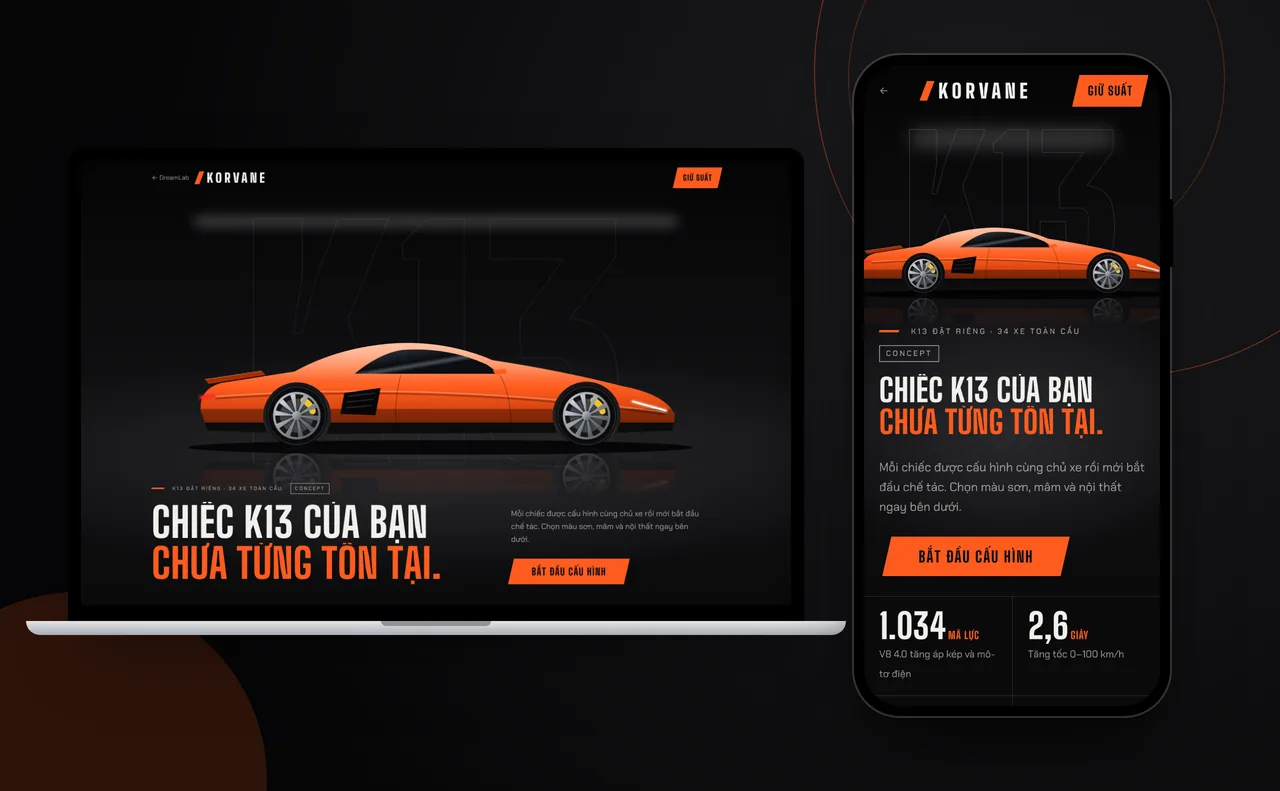
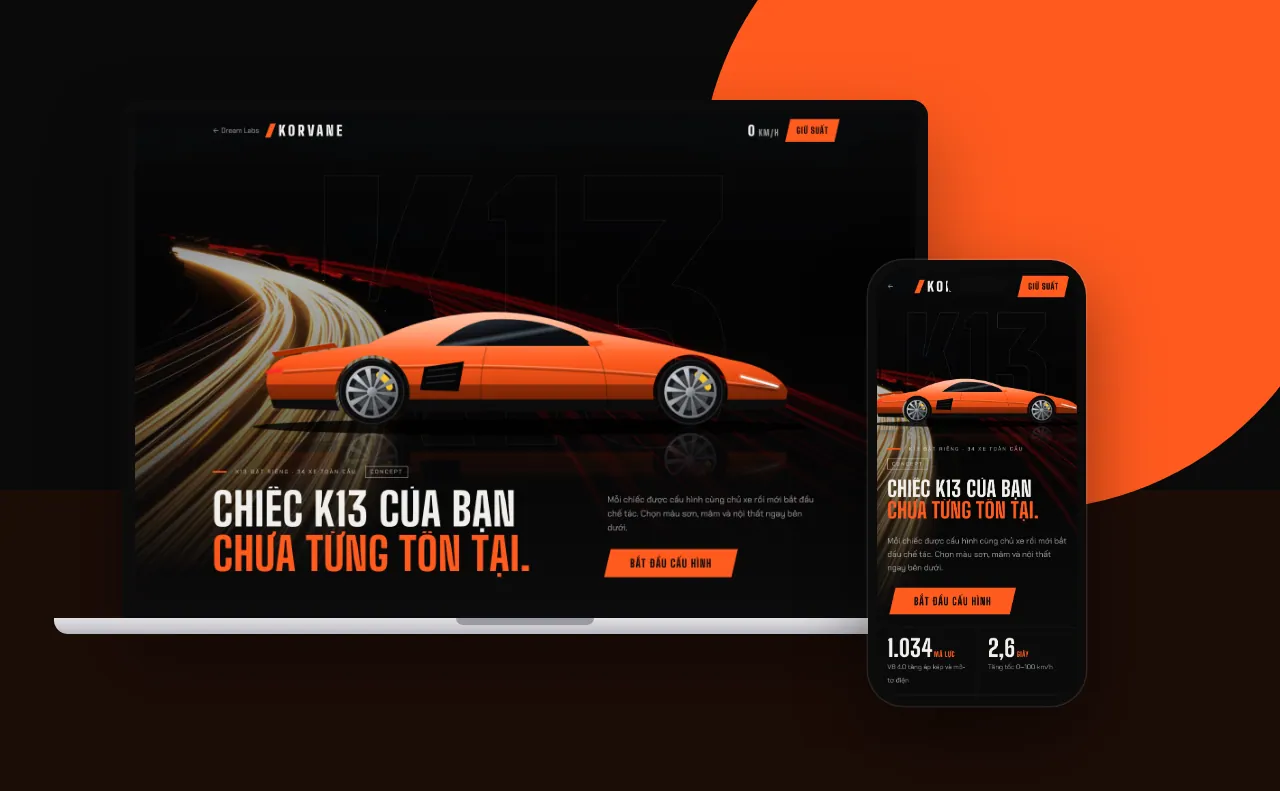
Landing Korvane: ảnh chất liệu thật (carbon, da, phanh, vệt đèn), cảnh ghim wipe xiên, dải cận cảnh
Claude-Session: https://claude.ai/code/session_012QLWn7rvRysGvRwdv6upwG

diff --git a/demos/lux-lp-korvane.html b/demos/lux-lp-korvane.html
@@ -25,9 +25,9 @@ ul,ol{padding:0;list-style:none}
 summary{cursor:pointer;list-style:none}summary::-webkit-details-marker{display:none}
 .w{width:100%;max-width:1280px;margin:0 auto;padding:0 max(20px,4.4vw)}
 .h1 span{display:block;overflow:hidden;padding-bottom:.1em;margin-bottom:-.1em}
-.h1 i{display:block;font-style:normal;animation:up var(--d6) var(--ease) both}
+.h1 i{display:block;font-style:normal;animation:sl var(--d6) var(--ease) .1s both}
 .h1 span:nth-child(2) i{animation-delay:.162s}.h1 span:nth-child(3) i{animation-delay:.324s}
-@keyframes up{from{transform:translateY(110%)}}
+@keyframes sl{from{transform:translateX(-104%) skewX(-13deg)}}
 @keyframes fade{from{opacity:0}}
 .js [data-r]{opacity:0;transform:translateY(26px);transition:opacity var(--d5) var(--ease),transform var(--d6) var(--ease);transition-delay:calc(var(--i,0)*162ms)}
 .js [data-r=clip]{opacity:1;transform:none;clip-path:inset(0 0 100% 0);transition:clip-path var(--d6) var(--ease);transition-delay:calc(var(--i,0)*162ms)}
@@ -41,7 +41,7 @@ summary{cursor:pointer;list-style:none}summary::-webkit-details-marker{display:n
 @media(max-width:760px){.stk{display:flex}body{padding-bottom:0}}
 .emb .bk{display:none!important}
 .vh{position:absolute;width:1px;height:1px;overflow:hidden;clip-path:inset(50%)}
-@media(prefers-reduced-motion:reduce){html{scroll-behavior:auto}*,*::before,*::after{animation:none!important;transition:none!important}.js [data-r]{opacity:1;transform:none;clip-path:none}}
+@media(prefers-reduced-motion:reduce){html{scroll-behavior:auto}*,*::before,*::after{animation:none!important;transition:none!important}.js [data-r]{opacity:1;transform:none;clip-path:none}.js .lc[data-r] div{clip-path:polygon(9% 0,100% 0,91% 100%,0 100%)}}
 :root{--bk:#0A0A0B;--cb:#141416;--wh:#F1F0EC;--mu:rgba(241,240,236,.64);--ln:rgba(241,240,236,.14);--pa:#FF5B1F;--ac:var(--pa);--fd:"Big Shoulders",Impact,sans-serif;--fb:"Chakra Petch",system-ui,sans-serif}
 body{background:var(--bk);color:var(--wh);font-family:var(--fb);font-weight:400}
 h1,h2,h3{font-family:var(--fd);font-weight:800;text-transform:uppercase;line-height:1;letter-spacing:.01em}
@@ -61,17 +61,30 @@ header .w{display:flex;align-items:center;gap:var(--s3);height:68px}
 .lg i{width:10px;height:26px;background:var(--pa);transform:skewX(-21deg);margin-right:var(--s2);transition:background var(--d4)}
 /* hero */
 .hero{position:relative;min-height:min(100svh,940px);padding:var(--s7) 0 var(--s5);display:flex;flex-direction:column;justify-content:flex-end;overflow:hidden;background:radial-gradient(ellipse 68% 26% at 50% 68%,#2A2A2E 0,transparent 100%),linear-gradient(180deg,#050506,#131315 61.8%,#0A0A0B)}
-.hero::before{content:"";position:absolute;left:16%;right:16%;top:13%;height:10px;border-radius:9px;background:#fff;filter:blur(13px);opacity:.5;animation:fade 2.6s var(--ease) both}
+.hb{position:absolute;inset:-12px;overflow:hidden;translate:calc(var(--mx,0)*-10px) calc(var(--my,0)*-6px);transition:translate var(--d5) var(--ease)}
+.hb div{position:absolute;inset:-9% 0}
+.hb img{display:block;width:100%;height:100%;object-fit:cover;object-position:50% 64%;animation:kb 16s var(--ease) both}
+@keyframes kb{from{transform:scale(1.16)}}
+.hb::after{content:"";position:absolute;inset:0;background:linear-gradient(180deg,rgba(10,10,11,.92),rgba(10,10,11,.3) 34%,rgba(10,10,11,.5) 58%,var(--bk) 94%)}
+.sk i{position:absolute;left:0;top:31%;width:34vw;height:2px;background:linear-gradient(90deg,transparent,var(--pa) 70%,#fff);opacity:0;animation:sk 4.2s cubic-bezier(.5,0,.1,1) 1s infinite;animation-play-state:paused}
+.sk i:nth-child(2){top:47%;width:52vw;height:1px;animation-duration:5.6s;animation-delay:2.1s}
+.sk i:nth-child(3){top:62%;width:22vw;height:3px;animation-duration:3.6s;animation-delay:2.9s}
+.sk i:nth-child(4){top:22%;width:44vw;height:1px;animation-duration:6.8s;animation-delay:.4s}
+.on>.sk i{animation-play-state:running}
+@keyframes sk{0%{transform:translateX(-56vw) skewX(-21deg);opacity:0}8%{opacity:.85}46%{opacity:.5}58%,100%{transform:translateX(112vw) skewX(-21deg);opacity:0}}
 .bg{position:absolute;left:0;right:0;top:14%;text-align:center;font-family:var(--fd);font-weight:900;font-size:min(46vw,620px);line-height:.8;color:transparent;-webkit-text-stroke:1px rgba(241,240,236,.13);white-space:nowrap;pointer-events:none;-webkit-user-select:none;user-select:none}
 .cw{position:relative;width:min(100%,1180px);margin:0 auto;padding:0 var(--s3);animation:drv var(--d6) var(--ease) both}
 @keyframes drv{from{transform:translateX(-26%);opacity:0}}
-.car{width:100%;overflow:visible;--p1:#FF9A6B;--p2:#FF5B1F;--p3:#A82C00;--r1:#C9CED3;--r2:#55595F;--cl:#F2C230}
+.car{translate:calc(var(--mx,0)*13px) calc(var(--my,0)*5px);transition:translate var(--d5) var(--ease);width:100%;overflow:visible;--p1:#FF9A6B;--p2:#FF5B1F;--p3:#A82C00;--r1:#C9CED3;--r2:#55595F;--cl:#F2C230}
 .car .sp{transform:rotate(calc(var(--sy,0)*.6deg))}
 .car .hl{animation:hl 4.24s ease-in-out infinite alternate}@keyframes hl{from{opacity:.5}to{opacity:1}}
 .hero .w{position:relative;z-index:2;display:grid;grid-template-columns:1.618fr 1fr;gap:var(--s5);align-items:end;margin-top:calc(-1*var(--s4))}
 h1{font-size:clamp(42px,5.8vw,84px);margin-top:var(--s3)}.h1 span{white-space:nowrap}
 .hr{display:grid;gap:var(--s4);justify-items:start;animation:fade var(--d6) var(--ease) .6s both}
 .hr p{color:var(--mu);max-width:38ch}
+.spd,.rv{display:none}
+.mo .spd{display:block;font-family:var(--fd);font-weight:800;font-size:16px;letter-spacing:.1em;text-transform:uppercase;color:var(--mu);min-width:92px;text-align:right;font-variant-numeric:tabular-nums}.spd b{font-size:26px;color:var(--wh)}
+.mo .rv{display:block;position:absolute;left:0;right:0;bottom:-2px;height:2px;background:var(--pa);transform-origin:0 0;transform:scaleX(0);transition:background var(--d4)}
 /* số */
 .nb{border-top:1px solid var(--ln);border-bottom:1px solid var(--ln)}
 .nb .w{display:grid;grid-template-columns:repeat(4,1fr)}
@@ -89,6 +102,43 @@ h2{font-size:clamp(42px,6vw,89px)}
 .bn li::before{content:"";position:absolute;left:0;top:0;width:42px;height:4px;background:var(--pa);transition:width var(--d5) var(--ease),background var(--d4)}.bn li:hover::before{width:100%}
 .bn small{font-family:var(--fd);font-weight:800;font-size:53px;line-height:1;color:transparent;-webkit-text-stroke:1px var(--mu)}
 .bn h3{font-size:33px;margin:var(--s4) 0 var(--s2)}.bn p{color:var(--mu)}
+/* chất liệu */
+.mt{position:relative}
+.mk{position:relative;display:grid;grid-template-columns:1.618fr 1fr;align-items:center;gap:var(--s5);max-width:1280px;margin:0 auto;padding:0 max(20px,4.4vw) var(--s6)}
+.mk figure{overflow:hidden;aspect-ratio:1.618}
+.mk img{display:block;width:100%;height:100%;object-fit:cover}
+.mc{display:grid;gap:var(--s3);justify-items:start}
+.mc>p:nth-child(3){color:var(--mu);max-width:36ch}
+.mn{display:flex;flex-wrap:wrap;align-items:baseline;gap:0 var(--s2);font-size:13px;color:var(--mu);margin-top:var(--s2)}
+.mn b{font-family:var(--fd);font-weight:800;font-size:clamp(68px,9vw,144px);line-height:.86;color:var(--wh);font-variant-numeric:tabular-nums}
+.mn small{font-family:var(--fd);font-weight:800;font-size:26px;letter-spacing:.06em;color:var(--pa);transition:color var(--d4)}.mn span{flex-basis:100%;margin-top:var(--s2)}
+.me,.mg{display:none}
+.mo .mt{height:300vh;height:300svh}
+.mo .mp{position:sticky;top:0;height:100vh;height:100svh;overflow:hidden}
+.mo .mk{position:absolute;inset:0;max-width:none;padding:0;display:flex}
+.mo .mk figure{position:absolute;inset:0;aspect-ratio:auto}
+.mo .mk figure::after{content:"";position:absolute;inset:0;background:linear-gradient(90deg,rgba(10,10,11,.96),rgba(10,10,11,.82) 36%,rgba(10,10,11,.08) 76%),linear-gradient(0deg,rgba(10,10,11,.8),transparent 34%)}
+.mo .mk img{will-change:transform}
+.mo .mc{position:relative;width:100%;max-width:1280px;margin:0 auto;padding:var(--s6) max(20px,4.4vw)}
+.mo .mc>*{opacity:0;transform:translateX(-68px);transition:opacity var(--d4) var(--ease),transform var(--d5) var(--ease)}
+.mo .a .mc>*{opacity:1;transform:none;transition-delay:.16s}.mo .a .mc>:nth-child(2){transition-delay:.26s}.mo .a .mc>:nth-child(3){transition-delay:.36s}.mo .a .mc>:nth-child(4){transition-delay:.46s}
+.mo .me{display:block;position:absolute;top:0;left:0;width:18%;height:100%;z-index:3;opacity:0;pointer-events:none;background:linear-gradient(to bottom right,transparent calc(50% - 2px),var(--pa) calc(50% - 2px),var(--pa) calc(50% + 2px),transparent calc(50% + 2px))}
+.mo .mg{display:block;position:absolute;left:max(20px,4.4vw);right:max(20px,4.4vw);bottom:var(--s5);height:13px;z-index:4;background:repeating-linear-gradient(90deg,var(--ln) 0 2px,transparent 2px 13px)}
+.mg i{position:absolute;inset:0;background:repeating-linear-gradient(90deg,var(--pa) 0 2px,transparent 2px 13px);clip-path:inset(0 100% 0 0)}
+/* cận cảnh */
+.lk{overflow:hidden}
+.lr{display:flex;gap:var(--s4);overflow-x:auto;padding:0 max(20px,4.4vw) var(--s3);scrollbar-width:none;outline-offset:-2px;cursor:grab;-webkit-user-select:none;user-select:none}.lr::-webkit-scrollbar{display:none}
+.lr.dg{cursor:grabbing}
+.lc{flex:0 0 min(46vw,620px)}
+.lc div{aspect-ratio:1.5;overflow:hidden;clip-path:polygon(9% 0,100% 0,91% 100%,0 100%);background:var(--cb)}
+.js .lc[data-r] div{clip-path:polygon(9% 0,9% 0,0 100%,0 100%);transition:clip-path var(--d6) var(--ease) calc(var(--i,0)*162ms)}
+.js .lc.in div{clip-path:polygon(9% 0,100% 0,91% 100%,0 100%)}
+.lc img{display:block;width:120%;max-width:none;height:100%;margin-left:-10%;object-fit:cover;pointer-events:none;transition:scale var(--d5) var(--ease)}
+.lc:hover img{scale:1.06}
+.lc figcaption{display:flex;align-items:baseline;gap:var(--s3);margin-top:var(--s3);padding-left:9%;color:var(--mu);font-size:13px;letter-spacing:.06em}
+.lc b{font-family:var(--fd);font-weight:800;font-size:33px;line-height:1;color:var(--pa);transition:color var(--d4)}
+.lb{margin:var(--s3) max(20px,4.4vw) 0;height:2px;background:var(--ln)}.lb i{display:block;height:100%;background:var(--pa);transform-origin:0 0;transform:scaleX(.2);transition:background var(--d4)}
+@media(hover:none){.lr{scroll-snap-type:x mandatory;scroll-padding:0 max(20px,4.4vw)}.lc{scroll-snap-align:start}}
 /* cấu hình */
 .cz{background:var(--cb)}
 .ch{display:grid;grid-template-columns:1.618fr 1fr;gap:var(--s5);align-items:start}
@@ -143,7 +193,13 @@ footer .w{display:flex;flex-wrap:wrap;justify-content:space-between;gap:var(--s2
 .stk button{background:var(--pa);color:var(--bk);font-family:var(--fd);font-weight:800;font-size:16px;letter-spacing:.06em;text-transform:uppercase;transition:background var(--d4)}
 .stk .msg{background:var(--pa);color:var(--bk)}
 @media(max-width:860px){
-.bk span{display:none}
+.bk span,.mo .spd{display:none}
+.sk i:nth-child(n+3){display:none}.hb img{object-position:38% 60%}
+.mk{grid-template-columns:1fr;gap:var(--s3);padding-bottom:var(--s5)}
+.mo .mk{align-items:flex-end}.mo .mc{padding-bottom:132px}
+.mo .mk figure::after{background:linear-gradient(0deg,rgba(10,10,11,.96) 22%,rgba(10,10,11,.6) 52%,rgba(10,10,11,.1) 80%)}
+.mo .mg{bottom:94px}
+.lc{flex-basis:80vw}.lr{gap:var(--s2)}
 .hero{padding:94px 0 var(--s4);min-height:0}.bg{top:68px;font-size:58vw}.cw{padding:0;margin-top:var(--s6);width:122%;margin-left:-11%}
 .hero .w,.sh,.pg,.fm{grid-template-columns:1fr;gap:var(--s4)}.hero .w{margin-top:0}
 .hr .btn{margin-left:var(--s2)}
@@ -158,9 +214,11 @@ footer{padding-bottom:94px}
 </style>
 </head>
 <body>
-<header><div class="w"><a class="bk" href="../index.html" target="_top" aria-label="Quay lại Dream Labs">←&nbsp;<span>Dream Labs</span></a><a class="lg" href="#top"><i></i>KORVANE</a><a class="btn sm" href="#dk"><span>Giữ suất</span></a></div></header>
+<header><div class="w"><a class="bk" href="../index.html" target="_top" aria-label="Quay lại Dream Labs">←&nbsp;<span>Dream Labs</span></a><a class="lg" href="#top"><i></i>KORVANE</a><span class="spd" aria-hidden="true"><b id="sp">0</b> km/h</span><a class="btn sm" href="#dk"><span>Giữ suất</span></a></div><i class="rv" id="rv"></i></header>
 <main id="top">
-<section class="hero">
+<section class="hero" id="hero">
+ <div class="hb"><div data-p=".1"><img src="../img/photo/sieu-xe-1499539.webp" width="2400" height="1600" alt="Vệt đèn xe màu vàng và đỏ uốn theo khúc cua trên đường cao tốc ban đêm" fetchpriority="high" decoding="async"></div></div>
+ <div class="sk" aria-hidden="true"><i></i><i></i><i></i><i></i></div>
  <div class="bg" aria-hidden="true" data-p="-.14">K13</div>
  <div class="cw">
   <svg class="car" id="k0" viewBox="0 0 1000 380" role="img" aria-label="Siêu xe Korvane K13 nhìn ngang, hình vẽ bằng SVG">
@@ -214,6 +272,16 @@ footer{padding-bottom:94px}
  </ul>
 </div></section>
 
+<section class="mt" id="chat-lieu" aria-label="Chất liệu"><div class="mp">
+ <article class="mk"><figure><img src="../img/photo/sieu-xe-596815.webp" width="1800" height="1192" alt="Cận cảnh bề mặt sợi carbon dệt chéo, phía trên có một đường chỉ khâu trắng" loading="lazy" decoding="async"></figure>
+  <div class="mc"><p class="cap">Chất liệu 01 / 03</p><h2>Carbon <em>dệt lộ.</em></h2><p>Khung liền khối để lộ vân sợi. Số thứ tự và tên bạn được khắc ngay trên đó.</p><p class="mn"><b data-c="1390">1.390</b><small>KG</small><span>Khối lượng khô</span></p></div></article>
+ <article class="mk"><figure><img src="../img/photo/sieu-xe-16527891.webp" width="1800" height="1134" alt="Cận cảnh mặt ghế da màu nâu cam đục lỗ với hai đường chỉ khâu đôi" loading="lazy" decoding="async"></figure>
+  <div class="mc"><p class="cap">Chất liệu 02 / 03</p><h2>Da và <em>đường chỉ.</em></h2><p>Ghế đúc theo dáng ngồi của người lái chính, bọc da hoặc Alcantara, màu chỉ đi theo nội thất bạn chọn.</p><p class="mn"><b data-c="4">4</b><small>MẪU</small><span>Lựa chọn nội thất</span></p></div></article>
+ <article class="mk"><figure><img src="../img/photo/sieu-xe-833320.webp" width="1800" height="1200" alt="Cận cảnh cùm phanh sơn đỏ ôm đĩa phanh, nhìn qua nan mâm màu bạc" loading="lazy" decoding="async"></figure>
+  <div class="mc"><p class="cap">Chất liệu 03 / 03</p><h2>Thép <em>ghìm tốc.</em></h2><p>Cùm phanh sơn vàng, đỏ, bạc hoặc xanh, lộ ra sau từng nan mâm.</p><p class="mn"><b data-c="355">355</b><small>KM/H</small><span>Tốc độ tối đa</span></p></div></article>
+ <i class="me" id="me"></i><div class="mg" aria-hidden="true"><i id="mg"></i></div>
+</div></section>
+
 <section class="sec cz" id="chon"><div class="w">
  <div class="sh"><p class="cap">Cấu hình</p><h2 data-r>Vẽ chiếc <em>của bạn.</em></h2><p data-r style="--i:1">Mọi lựa chọn đổi ngay trên hình vẽ. Giá tham khảo cập nhật theo cấu hình.</p></div>
  <div class="ch">
@@ -240,6 +308,17 @@ footer{padding-bottom:94px}
   </div>
  </div>
 </div></section>
+
+<section class="sec lk" id="can-canh">
+ <div class="w"><div class="sh"><p class="cap">Cận cảnh</p><h2 data-r>Nhìn gần, <em>thật gần.</em></h2><p data-r style="--i:1">Kéo ngang để xem. Đây là ảnh minh họa không khí, chưa phải ảnh chiếc K13 nào.</p></div></div>
+ <div class="lr" id="lr" tabindex="0" role="group" aria-label="Dải ảnh chi tiết, kéo ngang để xem">
+  <figure class="lc" data-r style="--i:0"><div><img src="../img/photo/sieu-xe-12912924.webp" width="960" height="533" alt="Cận cảnh nan mâm màu bạc, phía sau là đĩa phanh khoan lỗ và cùm phanh vàng" loading="lazy" decoding="async"></div><figcaption><b>01</b>Nan mâm và đĩa phanh khoan lỗ</figcaption></figure>
+  <figure class="lc" data-r style="--i:1"><div><img src="../img/photo/sieu-xe-9651480.webp" width="960" height="640" alt="Cận cảnh táp-lô bọc da nâu sẫm với đường chỉ khâu sáng màu và dải nan kim loại" loading="lazy" decoding="async"></div><figcaption><b>02</b>Da nâu, chỉ khâu sáng màu</figcaption></figure>
+  <figure class="lc" data-r style="--i:0"><div><img src="../img/photo/sieu-xe-34277923.webp" width="960" height="641" alt="Đĩa phanh xẻ rãnh và cùm phanh trên trục bánh trong xưởng, chưa lắp mâm" loading="lazy" decoding="async"></div><figcaption><b>03</b>Đĩa phanh xẻ rãnh trong xưởng</figcaption></figure>
+  <figure class="lc" data-r style="--i:1"><div><img src="../img/photo/sieu-xe-1679719.webp" width="960" height="640" alt="Vệt đèn xe trắng và đỏ kéo dài trên con đường tối ban đêm" loading="lazy" decoding="async"></div><figcaption><b>04</b>Đường đêm, vệt đèn kéo dài</figcaption></figure>
+ </div>
+ <div class="lb" aria-hidden="true"><i id="lb"></i></div>
+</section>
 
 <section class="sec" id="quy-trinh"><div class="w">
  <div class="sh"><p class="cap">Thông số và quy trình</p><h2 data-r>Chín tháng, <em>bốn chặng.</em></h2></div>
@@ -283,19 +362,27 @@ footer{padding-bottom:94px}
  </form>
 </div></section>
 </main>
-<footer><div class="w"><span>Korvane là thương hiệu concept, mẫu xe, thông số và giá chỉ để minh hoạ. Landing page mẫu do <a href="../index.html" target="_top">Dream Labs</a> thiết kế.</span><span>hello@korvane.example</span></div></footer>
+<footer><div class="w"><span>Korvane là thương hiệu concept, mẫu xe, thông số và giá chỉ để minh hoạ, ảnh chụp lấy từ thư viện Pexels để minh họa không khí. Landing page mẫu do <a href="../index.html" target="_top">Dream Labs</a> thiết kế.</span><span>hello@korvane.example</span></div></footer>
 <form class="stk" novalidate data-ok="Đã ghi số của bạn. Trang mẫu nên chưa gửi đi đâu."><p class="msg" role="status"></p><label class="vh" for="s1">Số điện thoại</label><input id="s1" type="tel" required placeholder="Số điện thoại"><button>Giữ suất</button></form>
 <script>
 (()=>{
 const D=document,H=D.documentElement,$=(s,r=D)=>r.querySelector(s),$$=(s,r=D)=>[...r.querySelectorAll(s)],RM=matchMedia('(prefers-reduced-motion:reduce)').matches;
-H.classList.add('js');if(parent!==window)H.classList.add('emb');
+H.classList.add('js');RM||H.classList.add('mo');if(parent!==window)H.classList.add('emb');
 const vnd=n=>Math.round(n).toLocaleString('vi-VN');
 const tween=(el,to,fm=vnd,ms=1110)=>{const fr=+el._v||0;el._v=to;cancelAnimationFrame(el._r);if(RM||!ms){el.textContent=fm(to);return}const t0=performance.now(),run=t=>{const u=Math.min(1,(t-t0)/ms),e=1-Math.pow(1-u,4);el.textContent=fm(fr+(to-fr)*e);if(u<1)el._r=requestAnimationFrame(run)};el._r=requestAnimationFrame(run)};
 const seen=t=>{t.classList.add('in');if(t.dataset.n!=null){const dc=+t.dataset.dc||0;tween(t,+t.dataset.n,v=>v.toLocaleString('vi-VN',{minimumFractionDigits:dc,maximumFractionDigits:dc}),1796)}};
 const watch=r=>{const a=$$('[data-r],[data-n]',r).filter(e=>!e._w);a.forEach(e=>e._w=1);if(!('IntersectionObserver' in window))return a.forEach(seen);const mp=new Map,io=new IntersectionObserver(es=>es.forEach(e=>{if(e.isIntersecting){io.unobserve(e.target);mp.get(e.target).forEach(seen)}}),{threshold:.1,rootMargin:'0px 0px -6% 0px'});a.forEach(e=>{const t=/clip|wipe/.test(e.dataset.r)?e.parentNode:e;mp.has(t)?mp.get(t).push(e):(mp.set(t,[e]),io.observe(t))})};
-const hd=$('header'),stk=$('.stk'),dk=$('#dk'),px=$$('[data-p]');let tk=0;
+const hd=$('header'),stk=$('.stk'),dk=$('#dk'),px=$$('[data-p]'),hero=$('#hero'),mt=$('#chat-lieu'),mks=$$('.mk'),me=$('#me'),mg=$('#mg'),sp=$('#sp'),rv=$('#rv'),K=18;let tk=0,ma=-1;
+const sm=t=>t<0?0:t>1?1:t*t*(3-2*t);
+/* cảnh ghim chất liệu: ảnh mở bằng wipe xiên, số đếm khi tới lượt */
+const scene=vh=>{const r=mt.getBoundingClientRect();if(r.bottom<-9||r.top>vh+9)return;const p=Math.max(0,Math.min(1,-r.top/(r.height-vh)));let ed=-1;
+ mks.forEach((m,i)=>{const t=i?sm((p-(i*.36-.18))/.28):1,a=(100+K)*(1-t);if(i){m.style.clipPath=`polygon(${a.toFixed(2)}% 0,120% 0,120% 100%,${(a-K).toFixed(2)}% 100%)`;if(t>0&&t<1)ed=a}
+  $('img',m).style.transform=`translate3d(${((1-t)*7-p*2).toFixed(2)}%,0,0) scale(${(1.1+(1-t)*.08).toFixed(3)})`});
+ me.style.opacity=ed<0?0:1;if(ed>=0)me.style.transform=`translate3d(${((ed-K)/K*100).toFixed(1)}%,0,0)`;mg.style.clipPath=`inset(0 ${(100-p*100).toFixed(1)}% 0 0)`;
+ const n=r.top>vh*.55?-1:p<.32?0:p<.68?1:2;if(n!==ma){ma=n;mks.forEach((m,i)=>{m.classList.toggle('a',i===n);if(i===n){const b=$('[data-c]',m);b._v=0;tween(b,+b.dataset.c)}})}};
 const onS=()=>{tk=0;const y=scrollY,vh=innerHeight;hd&&hd.classList.toggle('s',y>42);if(stk&&dk)stk.classList.toggle('on',y>vh*.618&&dk.getBoundingClientRect().top>vh*.8);
- if(!RM)px.forEach(p=>{const r=p.parentNode.getBoundingClientRect();if(r.bottom>-99&&r.top<vh+99)p.style.transform=`translate3d(0,${((r.top+r.height/2-vh/2)*+p.dataset.p).toFixed(1)}px,0)`});H.style.setProperty('--sy',y.toFixed(0))};
+ if(!RM)px.forEach(p=>{const r=p.parentNode.getBoundingClientRect();if(r.bottom>-99&&r.top<vh+99)p.style.transform=`translate3d(0,${((r.top+r.height/2-vh/2)*+p.dataset.p).toFixed(1)}px,0)`});H.style.setProperty('--sy',y.toFixed(0));
+ if(!RM){const g=Math.min(1,y/Math.max(1,H.scrollHeight-vh));rv.style.transform=`scaleX(${g.toFixed(4)})`;sp.textContent=Math.round(g*355);scene(vh)}};
 addEventListener('scroll',()=>{tk||(tk=requestAnimationFrame(onS))},{passive:true});onS();
 $$('form').forEach(f=>f.addEventListener('submit',e=>{e.preventDefault();const m=$('.msg',f),ok=$$('[required]',f).every(i=>i.value.trim());m.textContent=ok?(f.dataset.ok||'Cảm ơn bạn. Đây là trang mẫu của Dream Labs nên chưa có thông tin nào được gửi đi.'):'Bạn điền giúp các ô còn trống nhé.';m.classList.toggle('ok',ok)}));
 try{parent!==window&&parent.postMessage({wkDemo:'lux-lp-korvane',smDemo:'lux-lp-korvane'},'*')}catch(e){}
@@ -317,6 +404,17 @@ const up=()=>{const o=S.map((v,i)=>G[i][v]),p=34+o.reduce((a,x)=>a+x[2],0),code=
 $('#chon').addEventListener('click',e=>{const b=e.target.closest('[data-g]'),t=e.target.closest('[data-t]');if(t)view(t.dataset.t);if(b){S[b.dataset.g]=+b.dataset.v;view(b.dataset.g==3?1:0);up()}});
 $('#pr')._v=34;up();
 watch(D);
+/* hero: vệt sáng chỉ chạy khi trong khung nhìn, lớp ảnh và xe lệch nhẹ theo chuột */
+if('IntersectionObserver' in window)new IntersectionObserver(es=>es.forEach(e=>e.target.classList.toggle('on',e.isIntersecting))).observe(hero);else hero.classList.add('on');
+if(!RM&&matchMedia('(hover:hover)').matches)hero.addEventListener('pointermove',e=>{hero.style.setProperty('--mx',(e.clientX/innerWidth-.5).toFixed(3));hero.style.setProperty('--my',(e.clientY/innerHeight-.5).toFixed(3))});
+/* dải ảnh cận cảnh: ảnh trượt ngược trong khung, chuột kéo có quán tính, điện thoại vuốt snap */
+const lr=$('#lr'),lb=$('#lb'),li=$$('img',lr);let lt=0,dn=0,sx,sl,lx,v=0,rf=0;
+const lp=()=>{lt=0;const W=innerWidth,m=lr.scrollWidth-lr.clientWidth;lb.style.transform=`scaleX(${(.2+.8*(m>0?lr.scrollLeft/m:1)).toFixed(3)})`;
+ if(!RM)li.forEach(im=>{const r=im.parentNode.getBoundingClientRect();if(r.right>-60&&r.left<W+60)im.style.transform=`translate3d(${(Math.max(-.5,Math.min(.5,(r.left+r.width/2)/W-.5))*-14).toFixed(2)}%,0,0)`})};
+lr.addEventListener('scroll',()=>{lt||(lt=requestAnimationFrame(lp))},{passive:true});addEventListener('resize',()=>{lp();onS()});lp();
+lr.addEventListener('pointerdown',e=>{if(e.pointerType!=='mouse')return;dn=1;sx=lx=e.clientX;sl=lr.scrollLeft;v=0;cancelAnimationFrame(rf);lr.classList.add('dg')});
+addEventListener('pointermove',e=>{if(!dn)return;v=e.clientX-lx;lx=e.clientX;lr.scrollLeft=sl-(e.clientX-sx)});
+addEventListener('pointerup',()=>{if(!dn)return;dn=0;lr.classList.remove('dg');const go=()=>{v*=.94;lr.scrollLeft-=v;if(!RM&&Math.abs(v)>.4)rf=requestAnimationFrame(go)};go()});
 })();
 </script>
 </body>
